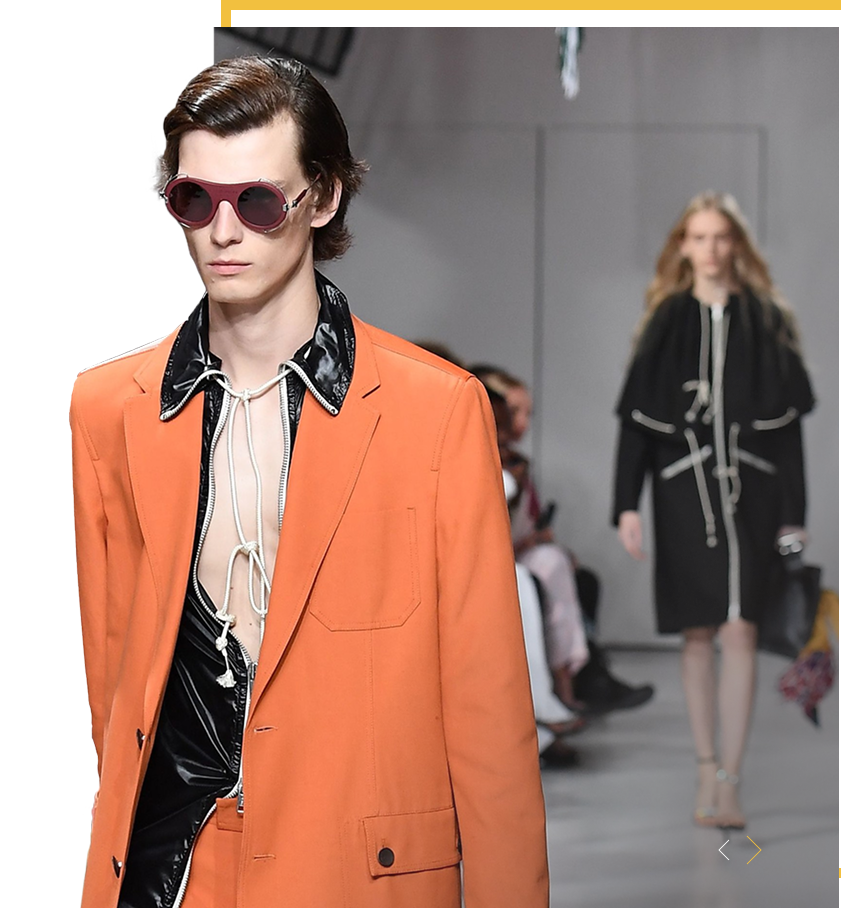
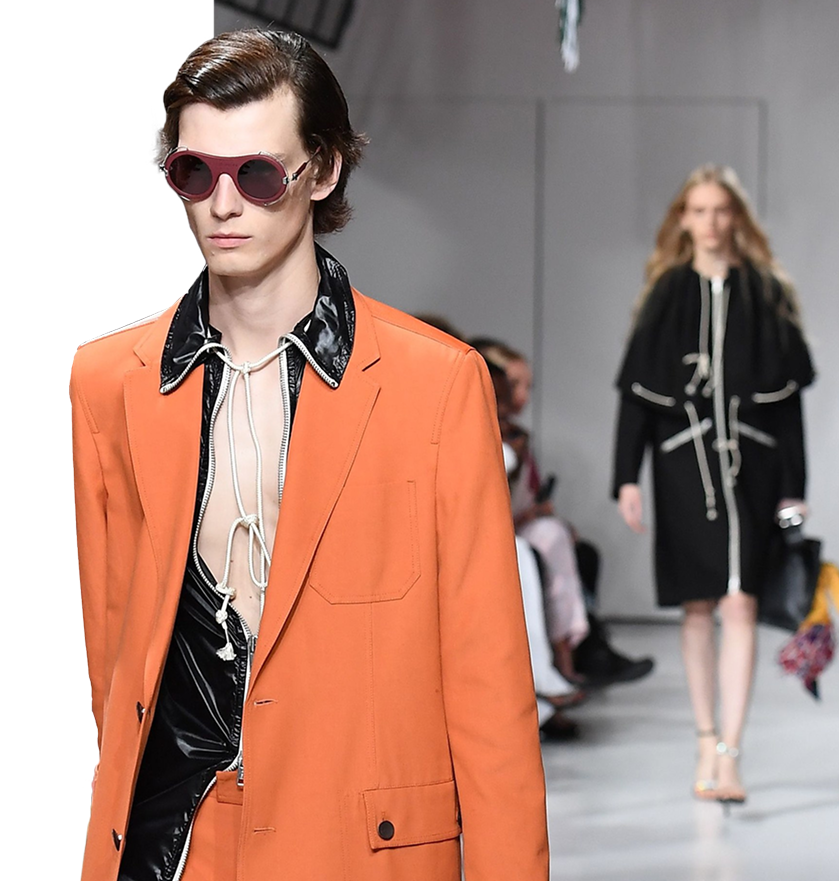
Add a simple CSS reset

diff --git a/css/style.css b/css/style.css
@@ -74,7 +74,12 @@ button:focus-visible {
   display: flex;
   justify-content: space-between;
   align-items: center;
+  background-image: linear-gradient(to right, rgba(95, 75, 139, 0.87) 25%, rgba(101, 78, 163, 0.87) 100%);
   font-size: 18px; }
+  .header__logo {
+    background: #FFFFFF; }
+    .header__logo__img {
+      border-radius: 160px,260px; }
 
 .nav__list {
   display: flex;
@@ -84,14 +89,30 @@ button:focus-visible {
   gap: clamp(50px, 3vw, 100px);
   text-transform: uppercase; }
 .nav__link {
-  text-decoration: none; }
+  text-decoration: none;
+  color: #FFFFFF; }
 
 .hero {
-  background-image: url("../img/bfw.svg"), linear-gradient(to right, rgba(95, 75, 139, 0.87) 25%, rgba(101, 78, 163, 0.87) 100%);
+  position: relative;
+  background-image: linear-gradient(to right, rgba(95, 75, 139, 0.87) 25%, rgba(101, 78, 163, 0.87) 100%);
   background-repeat: no-repeat;
   background-size: cover;
   background-position: right center;
   min-height: 80vh;
   padding: 64px 0; }
+  .hero__watermark {
+    position: absolute;
+    z-index: 0;
+    top: 0;
+    left: 0;
+    height: 54em;
+    width: 87.5em; }
+  .hero__header {
+    display: flex;
+    justify-content: center;
+    position: relative;
+    z-index: 1;
+    font-size: 72px;
+    color: #FFFFFF; }
 
 /*# sourceMappingURL=style.css.map */

diff --git a/scss/__layout.scss b/scss/__layout.scss
@@ -1,9 +1,20 @@
 .header {
-    display:flex;
-    justify-content: space-between;
+   display:flex;
+   justify-content: space-between;
    align-items: center;
+   background-image:linear-gradient(to right,
+    rgba(95,75,139,.87) 25%,
+    rgba(101,78,163,.87) 100%);
    font-size:$fs-body;
    &__media {
+
+   }
+   &__logo{
+    background:$light;
+    &__img {
+    border-radius: 160px,260px;
+    }
+ 
    }
 
 }
@@ -20,28 +31,14 @@
     }
     &__link { 
         text-decoration: none;
+        color:$light;
     }
 }
 
 
-
-
-
-
-
-
-
-
-
-
-
-
-
-
-
 .hero {
+  position:relative;
   background-image:
-    url("../img/bfw.svg"),
     linear-gradient(to right,
     rgba(95,75,139,.87) 25%,
     rgba(101,78,163,.87) 100%);
@@ -50,4 +47,20 @@
     background-position: right center;
     min-height: 80vh;             
     padding: 64px 0; 
+    &__watermark{
+        position:absolute;
+        z-index:0;
+        top:0;
+        left:0;
+        height:54em;
+        width:87.5em;
+    }
+    &__header{
+        display: flex;
+        justify-content: center;
+        position:relative;
+        z-index:1;
+        font-size:$fs-h1;
+        color:$light;
+    }
 }

diff --git a/index.html b/index.html
@@ -43,7 +43,8 @@
                     <div class="container">
                         <section class="hero__bnr">
                         <p>#bladefashion2019</p>
-                        <h1> Показ лучших молодых дизайнеров России</h1>
+                        <h1 class="hero__header"> Показ лучших молодых<br>дизайнеров России</h1>
+                            <img class="hero__watermark" src="img/bfw.svg"aria-hidden="true">
                             <a href="" class="icon">
                                 <img class="order__tickets" src="img/icon_calendar.png" alt="Календарь"> 
                             </a>
